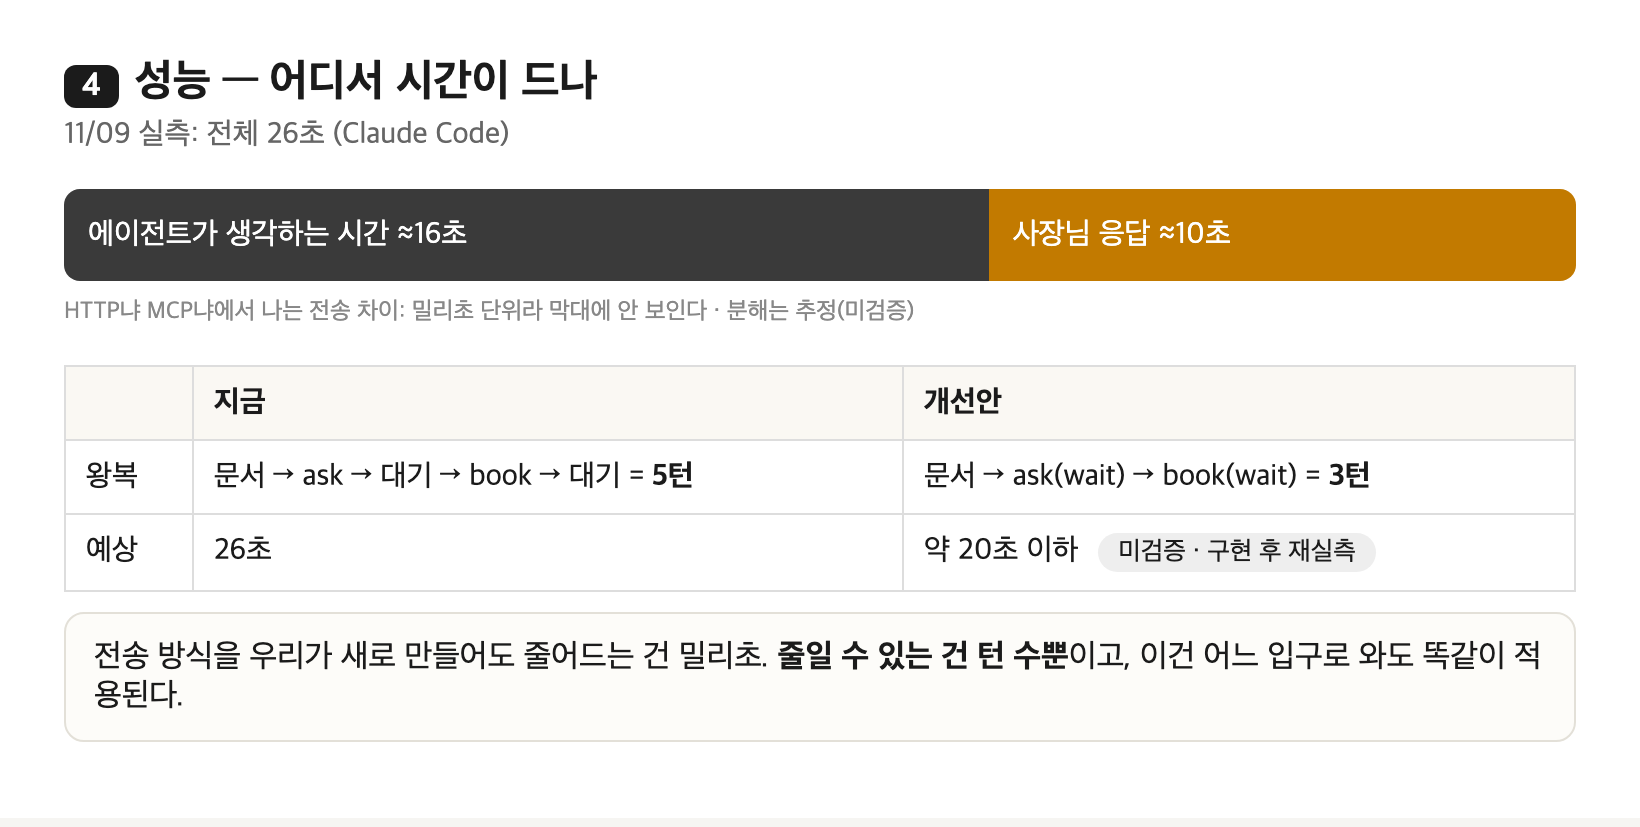
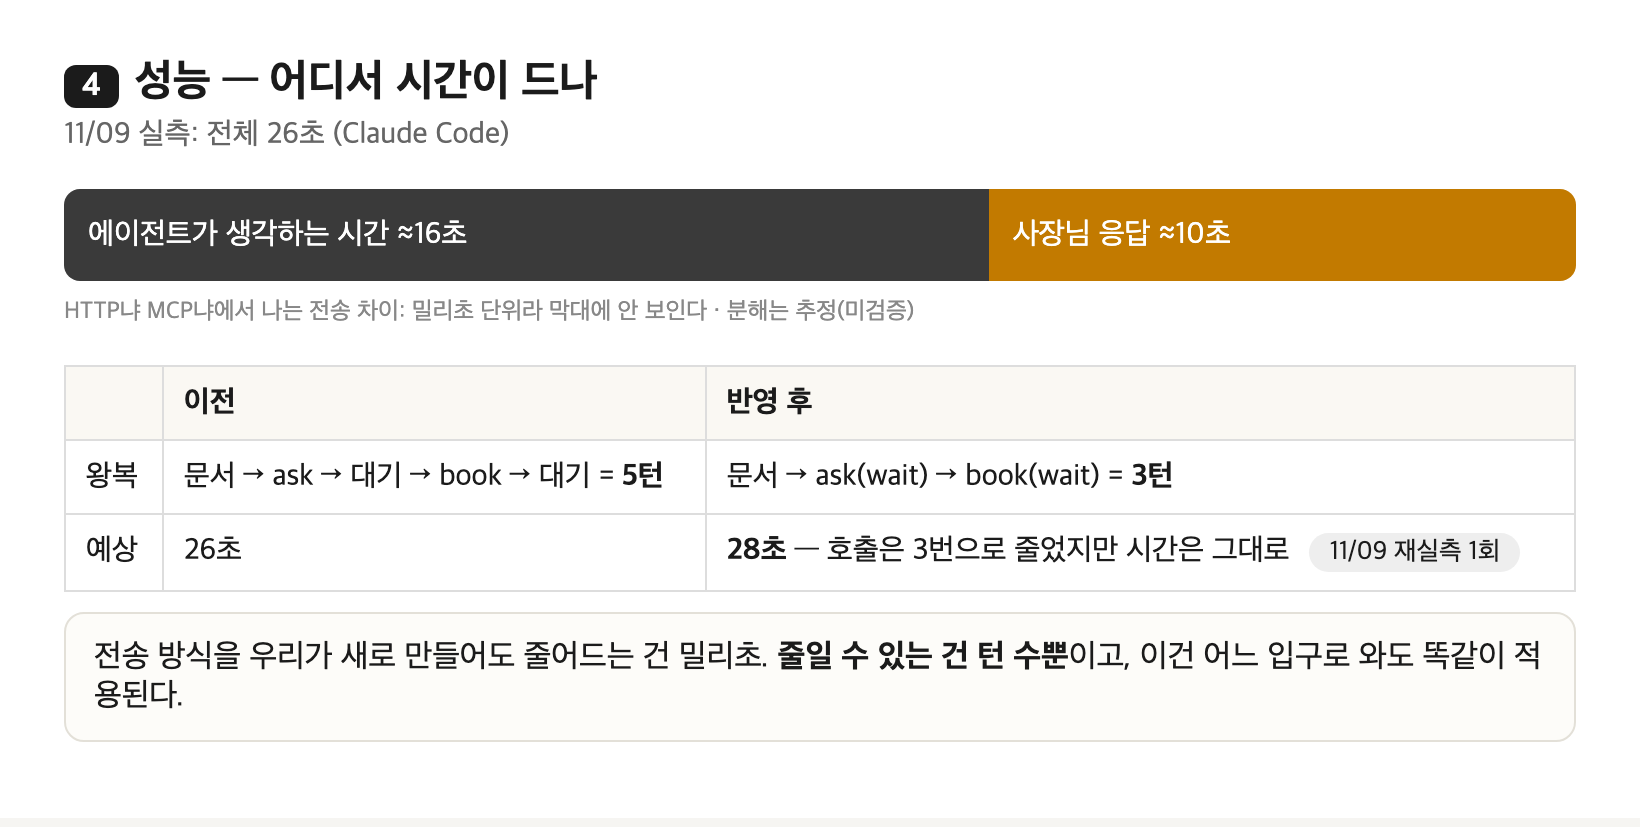
build: 호스팅하지 않기로 해 Fly.io 배포 설정을 지우고 설계 문서·그림을 맞춘다
실측 실험을 하지 않아 공개 주소가 필요 없다(최수민). 시연은 로컬 서버 + 자동 녹화 클립으로 한다.

diff --git a/docs/architecture/brief.html b/docs/architecture/brief.html
@@ -42,7 +42,7 @@ flowchart LR
   B --> URL
   T --> URL
   C --> URL
-  subgraph F["Counter 서버 (Fly.io · app/)"]
+  subgraph F["Counter 서버 (app/ · 로컬 실행, 호스팅 안 함)"]
     direction TB
     R{"누가 왔나?"}
     H["웹페이지<br/>질문 채팅 + 예약 폼 🆕"]
@@ -77,7 +77,7 @@ flowchart LR
     <tr><td>일반 채팅 (웹 열람만)</td><td class="ok">✅</td><td class="warn">⚠ 미검증</td><td>마크다운 → 링크 따라가기 (막힐 수 있음)</td></tr>
     
   </table>
-  <div class="card"><b>요약:</b> 읽기는 누구나. 쓰기는 터미널·브라우저 에이전트까지 <b>설정 없이</b>. 손님이 쓰는 4종은 모두 브라우저형 → 웹페이지 예약 폼이 핵심. 실측 전엔 미검증.</div>
+  <div class="card"><b>요약:</b> 읽기는 누구나. 쓰기는 터미널·브라우저 에이전트까지 <b>설정 없이</b>. 손님이 쓰는 4종은 모두 브라우저형 → 웹페이지 예약 폼이 핵심. 실제 에이전트 실측은 하지 않기로 해 공개 자료 기준 추정(미검증).</div>
 </section>
 
 <section data-s="4">
@@ -117,9 +117,9 @@ sequenceDiagram
   <div class="tag">HTTP냐 MCP냐에서 나는 전송 차이: 밀리초 단위라 막대에 안 보인다 · 분해는 추정(미검증)</div>
 </div><br>
   <table>
-    <tr><th></th><th>지금</th><th>개선안</th></tr>
+    <tr><th></th><th>이전</th><th>반영 후</th></tr>
     <tr><td>왕복</td><td>문서 → ask → 대기 → book → 대기 = <b>5턴</b></td><td>문서 → ask(wait) → book(wait) = <b>3턴</b></td></tr>
-    <tr><td>예상</td><td>26초</td><td>약 20초 이하 <span class="pill">미검증 · 구현 후 재실측</span></td></tr>
+    <tr><td>예상</td><td>26초</td><td><b>28초</b> — 호출은 3번으로 줄었지만 시간은 그대로 <span class="pill">11/09 재실측 1회</span></td></tr>
   </table>
   <div class="card">전송 방식을 우리가 새로 만들어도 줄어드는 건 밀리초. <b>줄일 수 있는 건 턴 수뿐</b>이고, 이건 어느 입구로 와도 똑같이 적용된다.</div>
 </section>
@@ -151,27 +151,24 @@ stateDiagram-v2
     <tr><td>사장님 화면에 응답할 사람이 없으면 에이전트가 60초 뒤 멈춤</td><td>심사 시간 동안 팀원 1명이 폰으로 /admin 담당</td></tr>
     <tr><td>앞 심사위원이 슬롯을 잡아 다음 사람이 못 씀</td><td>/admin 초기화 버튼 (이미 있음)</td></tr>
     <tr><td>링크 미리보기·크롤러가 GET 예약 링크를 눌러 버림</td><td>승인 없이는 확정 안 됨 → 피해 없음</td></tr>
-    <tr><td>일반 채팅이 GET 링크를 안 따라감</td><td>배포 전 실측 → 안 되면 표에서 빼고 터미널·브라우저 경로로 안내</td></tr>
+    <tr><td>일반 채팅이 GET 링크를 안 따라감</td><td>실측 안 하기로 함 → 터미널·브라우저 경로로 안내</td></tr>
   </table>
 </section>
 
 <section data-s="8">
-  <h2><span class="num">7</span>다음 순서</h2>
+  <h2><span class="num">7</span>진행 상황</h2>
 <pre class="mermaid">
 flowchart LR
-  D["✅ 완료<br/>app/ 이동<br/>ADMIN_TOKEN"] --> W["① wait로<br/>3턴 만들기"]
-  W --> P["② 예약 폼<br/>+ GET 링크"]
-  P --> X["③ 터널로 공개 후<br/>3종 에이전트 실측<br/>~15분"]
-  X --> FLY["④ Fly.io 배포<br/>직전 확인받음"]
-  X -.->|"빈틈 있으면"| MCP["MCP 추가"]
+  D["✅ app/ 이동<br/>ADMIN_TOKEN"] --> W["✅ wait로<br/>호출 3번"]
+  W --> P["✅ 예약 폼<br/>+ 마크다운 링크"]
+  P --> C["✅ 시연 클립<br/>자동 녹화"]
+  X["✕ 실제 에이전트 실측<br/>✕ Fly.io 배포<br/>하지 않기로 함"]
   classDef done fill:#e3f4ea,stroke:#12804a
-  classDef gate fill:#fdecea,stroke:#b3261e
-  class D done
-  class FLY gate
+  classDef drop fill:#f2f2f2,stroke:#aaa,stroke-dasharray:4 3,color:#777
+  class D,W,P,C done
+  class X drop
 </pre>
-  <div class="card"><b>수민님이 정할 것 2개</b><br>
-  1. 이 순서로 진행 — <b>기본값: ㄱㄱ</b><br>
-  2. 심사위원이 질의할 대상 — <b>기본값: 피부과 데모 창구</b> (아니면 Counter 팀 자체 창구 <code>/s/counter</code> 추가)</div>
+  <div class="card">시연은 로컬 서버 + <code>app/demo/record.py</code> 자동 녹화 클립으로 한다. 공개 주소는 두지 않는다 (2026-11-09 최수민).</div>
 </section>
 
 <script>

diff --git a/docs/architecture.md b/docs/architecture.md
@@ -5,13 +5,13 @@
 - 프로토콜은 우리 것(작업 상태 `input-required` → `completed`/`rejected`, 슬롯 홀드, 기억). MCP는 커넥터 등록이 필요해 접근성이 낮아 **선택 사항** — 실측 후 빈틈이 있을 때만 붙인다
 - 손님 쪽 4종은 모두 자체 브라우저로 폼을 채운다(공개 자료 기준, 미검증) → **웹페이지 예약 폼이 핵심**
 - 성능은 전송 방식이 아니라 왕복 수로 줄인다: `ask`·`book`에 `wait`를 붙여 5턴 → 3턴
-- 배포: Fly.io 1대 + 볼륨, 코드는 `app/`만. 사장님 화면은 `ADMIN_TOKEN`으로 잠근다
+- 호스팅하지 않는다(2026-11-09 최수민 — 실측 실험을 하지 않기로 해 공개 주소가 필요 없다). 시연은 로컬 + 자동 녹화 클립으로 한다. 코드는 `app/`만. 공개할 일이 생기면 `ADMIN_TOKEN`으로 사장님 화면을 잠근다
 
 ## 다음 순서
 1. ✅ 예약 폼(`/s/soi-derm?view=html`) + 마크다운 맨 위에 "브라우저로 예약하려면 이 페이지" 링크 · 클립 `store-book`
 2. ✅ `ask`·`book`에 `"wait":60` → 에이전트 호출 3번(문서·ask·book)으로 끝남. 재실측(11/09, Claude Code, 사장님 응답 5초×2): **28초** — 이전 26초보다 빨라지지 않았다. 줄어든 것은 호출 수이고, 시간은 사장님 응답 10초와 에이전트 답장 작성이 차지한다
-3. 터널로 공개해 Pickle·Claude in Chrome 실측 (Muse·Dots·Grok Bot은 계정 있으면)
-4. Fly.io 배포
+3. ~~실제 에이전트(Pickle 등) 실측~~ — 하지 않기로 함
+4. ~~Fly.io 배포~~ — 하지 않기로 함. 그래서 손님 4종이 실제로 폼을 채울 수 있는지는 공개 자료 기준 추정으로 남는다(미검증)
 
 ## 그림
 | | |

diff --git a/README.md b/README.md
@@ -10,7 +10,7 @@ and when it doesn't know something it asks staff once — then remembers.
 
 ```bash
 node app/server.mjs --reset     # Node 18+, no dependencies. PORT=3000 by default
-ADMIN_TOKEN=... node app/server.mjs   # when deployed: staff open /admin?key=<token> once
+ADMIN_TOKEN=... node app/server.mjs   # when exposed publicly (e.g. a tunnel): staff open /admin?key=<token> once
 ```
 
 | URL | Who | What |
@@ -42,7 +42,7 @@ Measured on 2026-11-09 with Claude Code: whole flow 24 s end to end (staff respo
 
 | Folder | What |
 |---|---|
-| [`app/`](app/) (`server.mjs`, `public/`, `data/`) | Product (build) — the only deployed code |
+| [`app/`](app/) (`server.mjs`, `public/`, `data/`) | Product (build) — all product code lives here |
 | [`video/`](video/README.md) | Demo video work — one folder per teammate (Korean) |
 | [`docs/use-cases.md`](docs/use-cases.md) | **Use cases UC-1~5 + demo scenarios — the shared reference for build, demo clips and video (Korean)** |
 | [`docs/measurement.md`](docs/measurement.md) | Phone vs Counter measurement plan (Korean) |

diff --git a/AGENTS.md b/AGENTS.md
@@ -21,7 +21,7 @@ git pull --rebase origin main
 
 ## 3. 고치는 범위
 
-- **앱(빌드) 코드는 [`app/`](app/) 안에만 둔다.** 원격 배포되는 것은 이 폴더 하나다. 루트·`docs/`·`video/`에 실행 코드를 두지 않는다
+- **앱(빌드) 코드는 [`app/`](app/) 안에만 둔다.** 제품 코드는 이 폴더 하나다. 루트·`docs/`·`video/`에 실행 코드를 두지 않는다
 - **화면을 바꾸면 `python3 app/demo/record.py`로 시연 클립을 다시 뽑아 같이 올린다.** 영상팀은 [`video/demo-clips/`](video/demo-clips.md)의 클립을 쓰고 손으로 녹화하지 않는다
 - 영상팀은 `video/` 아래 **자기 폴더만** 고친다. `video/common/`과 `docs/use-cases.md`는 싱크에서 정한 것만 올린다
 - 커밋할 때는 자기가 고친 파일만 경로로 지정해서 올린다(`git add -A` 금지)
